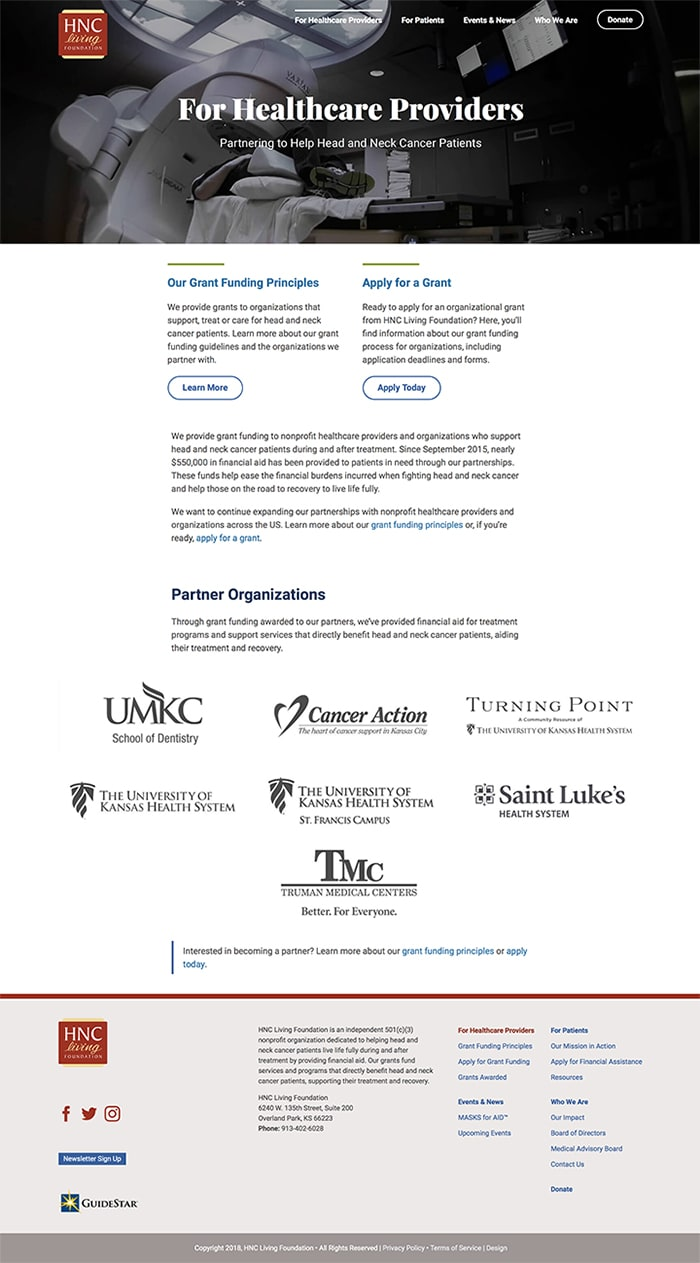
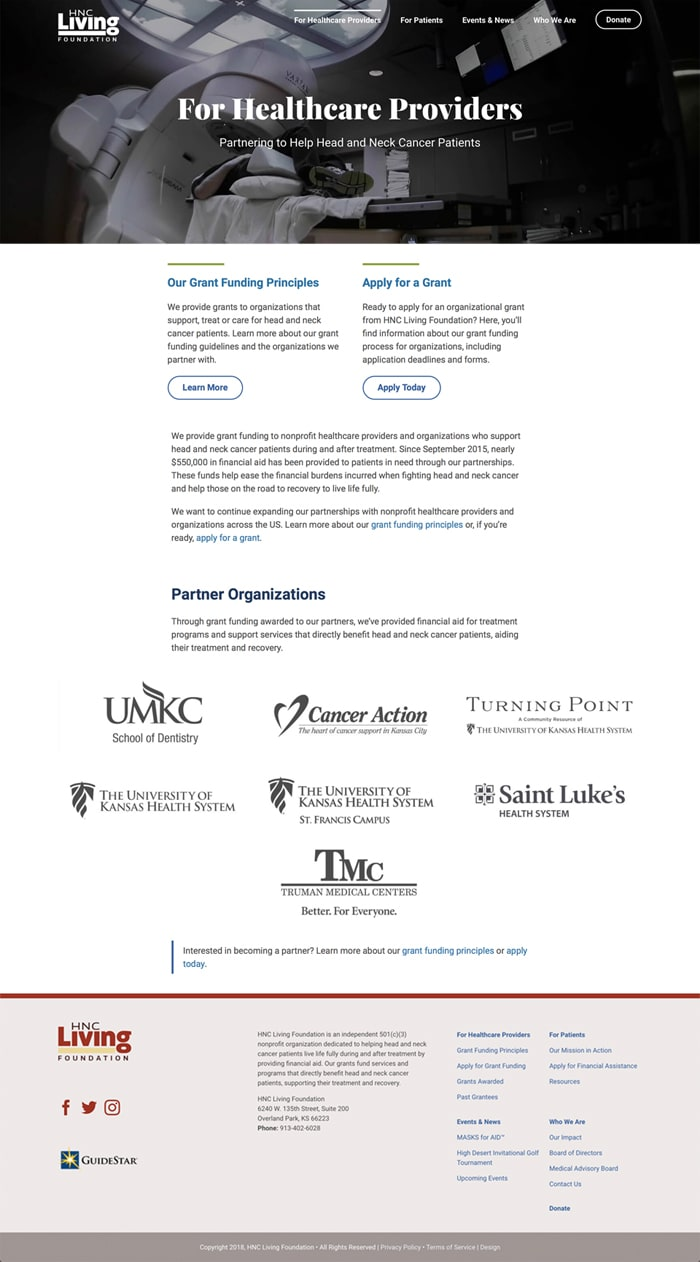
Initial commit

diff --git a/hnc-living-logo-redesign.php b/hnc-living-logo-redesign.php
@@ -1,0 +1,192 @@
+<!DOCTYPE html>
+<html lang="en">
+<head>
+	<meta charset="utf-8">
+	<title>Portfolio: HNC Living Logo Redesign | Kyle W. Johnston</title>
+	<meta name="viewport" content="width=device-width, initial-scale=1.0" />
+	<meta name="description" content="Kyle Johnston Work Sample: Nonproft rebrand" />
+	<meta name="keywords" content="portfolio, kyle johnston, logo design, business card design, website design" />
+	<meta name="author" content="Kyle Johnston" />
+	<link href="https://plus.google.com/103758963959064535451" rel="publisher" />
+	<link href="http://www.kylewjohnston.com/hnc-living-logo-redesign" rel="canonical" />
+	<?php include('includes/head.php'); ?>
+	<style type="text/css">
+		html {background:#9E3223}
+		h1,h2,h3{color:#9E3223}
+		article.content{background:white url('/img/angle--hnc.svg') left -1px no-repeat;
+background-size:101%}
+	</style>
+</head>
+
+<body>
+	<header>
+		<?php include('includes/header-nav.php'); ?>
+	</header>
+
+	<section class="block">
+		<div class="col-1 shim"></div>
+		<div class="col-6 spacer-6 intro">
+			<div class="inner">
+				<h1>HNC Living Foundation</h1>
+				<h2>Logo Redesign</h2>
+				<p><strong>The Ask: </strong>After the successful redesign of the new <a href="hnc-living-foundation" title="HNC Living Website Redesign Case Study">HNC Living website</a>, the HNC Living team asked me to redesign their logo.</p>
+				<p><strong>Contributions:</strong> Design</p>
+			</div>
+		</div>
+		<div class="col-5 shim"></div>
+	</section>
+
+	<article class="content">
+		<section class="block spacer-9--top">
+			<div class="col-1 shim"></div>
+			<div class="col-6">
+				<div class="inner">
+					<h2>Kickoff</h2>
+					<p>We started by meeting with the HNC Living team to talk about how the organization was evolving and their goals for the logo redesign. When we talked about what wasn&rsquo;t working with their logo, they shared a few key points:</p>
+                    <ul>
+                        <li>Their logo over-emphasized &ldquo;HNC&rdquo;</li>
+                        <li>It under-emphasized &ldquo;Living&rdquo;</li>
+                        <li>They felt the overall look was dated and could be mistaken as a logo for an accounting firm</li>
+                        <li>They didn't want to stray too far from their current design and color scheme</li>
+                    </ul>
+				</div>
+			</div>
+			<div class="col-4">
+				<div class="block block--mobile">
+					<div class="col-6">
+						<div class="inner caption">
+							<picture>
+								<source media="(min-width: 1012px)" srcset="img/samples/hnc-living/logo-redesign/original-logo.png">
+								<source media="(min-width: 544px)" srcset="img/samples/hnc-living/logo-redesign/original-logo.png">
+								<img  src="img/samples/hnc-living/logo-redesign/original-logo.png"  alt="The old HNC Living Foundation logo">
+							</picture>
+							<p class="mono">The old logo</p>
+						</div>
+					</div>
+					<div class="col-6">
+						<div class="inner caption">
+							<picture>
+								<source media="(min-width: 1012px)" srcset="img/samples/hnc-living/logo-redesign/new-logo.png">
+								<source media="(min-width: 544px)" srcset="img/samples/hnc-living/logo-redesign/new-logo.png">
+								<img  src="img/samples/hnc-living/logo-redesign/new-logo.png"  alt="The new HNC Living Foundation logo">
+							</picture>
+							<p class="mono">The new logo</p>
+						</div>
+					</div>
+				</div>
+			</div>
+			<div class="col-1 shim"></div>
+		</section>
+
+<!-- EXPLORATION -->
+	<section class="block item">
+            <div class="col-3 shim"></div>
+            <div class="col-6">
+                <div class="inner">
+					<h2>Process: Exploration</h2>
+					<p>With the input from the HNC Living team mind, we started by exploring a range of designs. We tried new font combinations and emphasized &ldquo;Living&rdquo; by playing with style and scale.</p>
+				</div>
+            </div>
+            <div class="col-3 shim"></div>
+
+            <div class="col-1 shim"></div>
+			<div class="col-10">
+                <div class="inner caption">
+					<picture>
+						<source media="(min-width: 1012px)" srcset="img/samples/hnc-living/logo-redesign/exploration--r01_wide.png">
+						<source media="(min-width: 544px)" srcset="img/samples/hnc-living/logo-redesign/exploration--r01_4c.png">
+						<img  src="img/samples/hnc-living/logo-redesign/exploration--r01_4c.png"  alt="HNC Living Foundation logo design explorations">
+					</picture>
+					<p class="mono">A sampling of early design explorations</p>
+                </div>
+            </div>
+            <div class="col-1 shim"></div>
+		</section>
+<!-- IDEAS -->
+		<section class="block item">
+            <div class="col-3 shim"></div>
+            <div class="col-6">
+                <div class="inner">
+					<h2>Sharing Ideas</h2>
+					<p>After preparing a range of designs, we presented the first round of ideas to the HNC Living team. The presentation outlined key elements of each design and placed them in a website mockup to show context. Most of the designs stayed true to their existing logo, but we included an option &#8211; &rdquo;big break&ldquo; &#8211; that served a complete break from the old design. This option proved to be the favorite.</p>
+				</div>
+            </div>
+            <div class="col-3 shim"></div>
+
+			<div class="col-12">
+                <div class="inner">
+					<picture>
+						<source media="(min-width: 1012px)" srcset="img/samples/hnc-living/logo-redesign/presentation--01.png">
+						<source media="(min-width: 544px)" srcset="img/samples/hnc-living/logo-redesign/presentation--01_2c.png">
+						<img class="shadow" src="img/samples/hnc-living/logo-redesign/presentation--01_1c.png"  alt="Logo redesign presentation">
+					</picture>
+                </div>
+            </div>
+		</section>
+<!-- REFINING -->
+		<section class="block block--narrowitem">
+			<div class="col-1 shim"></div>
+			<div class="col-5">
+			<div class="inner">
+					<h3>Refining the design</h3>
+					<p>After chosing the new design, we explored additional variations that reintroduced &ldquo;Foundation&rdquo;</p>
+				</div>
+			</div>
+			<div class="col-5">
+				<div class="inner">
+					<picture>
+						<source media="(min-width: 1012px)" srcset="img/samples/hnc-living/logo-redesign/presentation--02_2c.png">
+						<source media="(min-width: 544px)" srcset="img/samples/hnc-living/logo-redesign/presentation--02_2c.png">
+						<img  src="img/samples/hnc-living/logo-redesign/presentation--02_2c.png"  alt="Logo redesign presentation, round 2">
+					</picture>
+				</div>
+			</div>
+			<div class="col-1 shim"></div>
+		</section>
+<!-- LAUNCH -->
+		<section class="block item">
+			<div class="pattern__3-6-3">
+				<div class="inner">
+					<h2>Launching the Logo</h2>
+					<p>The logo was introduced in November 2018. We launched with updates to <a href="https://www.hncliving.org/" title="HNC Living website">HNCLiving.org</a> and their social profiles, a new ad layout, logo guidelines, and more.</p>
+				</div>
+			</div>
+			<div class="col-4">
+				<div class="inner">
+					<h3><a href="https://www.hncliving.org/" title="HNCLiving.org">HNCLiving.org</a></h3>
+					<picture>
+						<source media="(min-width: 1012px)" srcset="img/samples/hnc-living/logo-redesign/homepage__700.jpg">
+						<source media="(min-width: 544px)" srcset="img/samples/hnc-living/logo-redesign/website_sm.jpg">
+						<img class="shadow" src="img/samples/hnc-living/logo-redesign/website_xsm.jpg"  alt="HNCLiving.org">
+					</picture>
+				</div>
+			</div>
+			<div class="col-4">
+				<div class="inner">
+					<h3>Ad Layout</h3>
+					<picture>
+						<source media="(min-width: 1012px)" srcset="img/samples/hnc-living/logo-redesign/hnc-living-fall-2018-ad.jpg">
+						<source media="(min-width: 544px)" srcset="img/samples/hnc-living/logo-redesign/hnc-living-fall-2018-ad_sm.jpg">
+						<img class="shadow" src="img/samples/hnc-living/logo-redesign/hnc-living-fall-2018-ad_xsm.jpg"  alt="HNC Living ad layout">
+					</picture>
+				</div>
+			</div>
+			<div class="col-4">
+				<div class="inner">
+					<h3>Logo Guidelines</h3>
+					<picture>
+						<source media="(min-width: 1012px)" srcset="img/samples/hnc-living/logo-redesign/hnc-living--logo-guidelines.jpg">
+						<source media="(min-width: 544px)" srcset="img/samples/hnc-living/logo-redesign/hnc-living--logo-guidelines_sm.jpg">
+						<img class="shadow" src="img/samples/hnc-living/logo-redesign/hnc-living--logo-guidelines_xsm.jpg"  alt="HNC Living logo guidelines">
+					</picture>
+				</div>
+			</div>
+		</section>
+	<!-- MANUAL -->
+		
+	</article><!-- /.featurette -->
+
+	<?php include('includes/footer.php'); ?>
+	<?php include('includes/foot.php'); ?>
+</body>
+</html>
